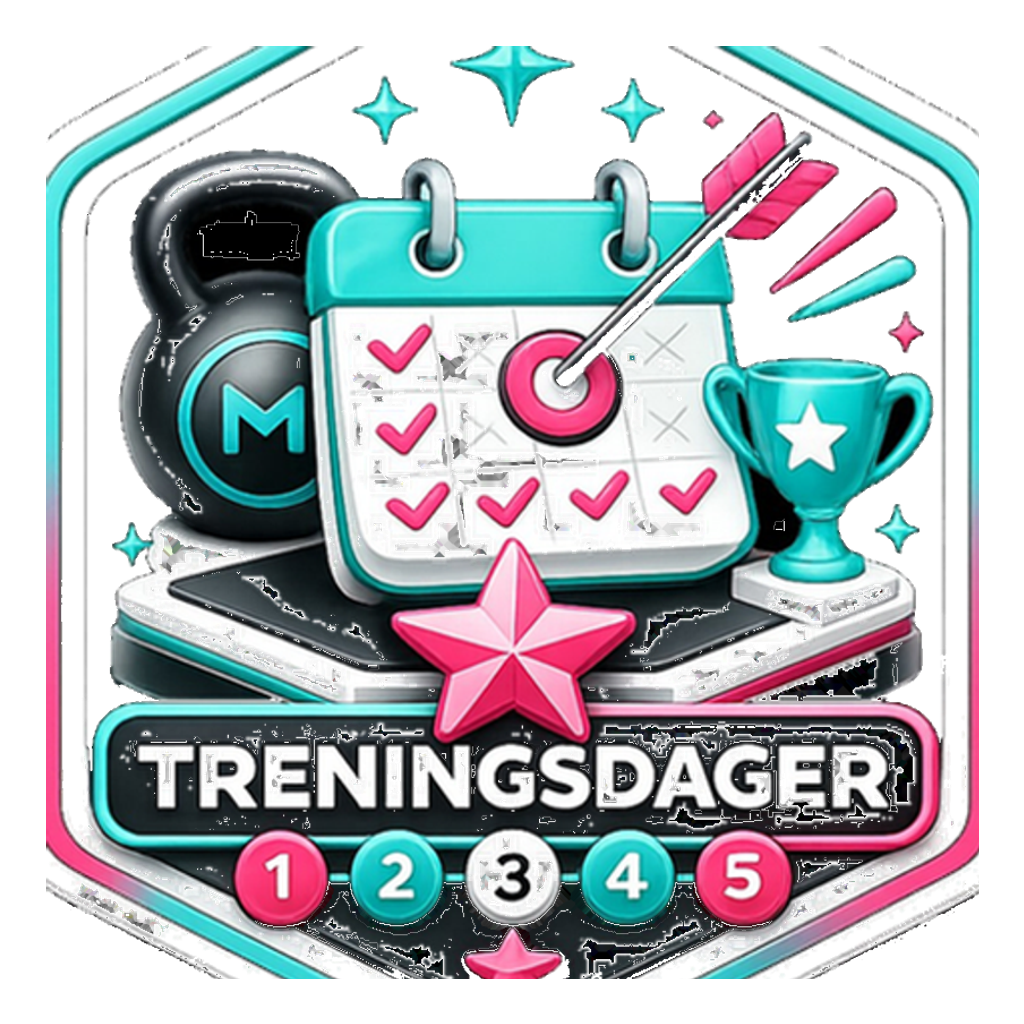
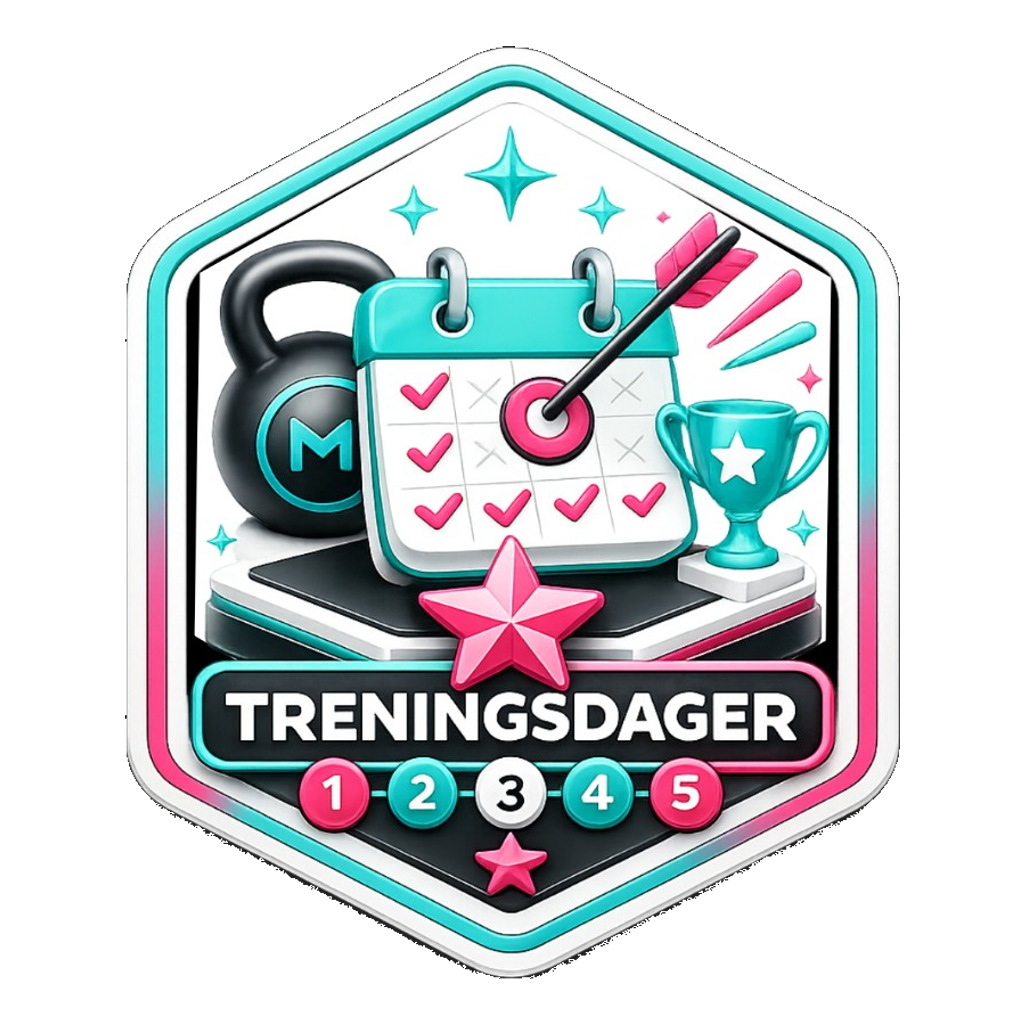
Update Treningsdager badge artwork
Replace 39-treningsdager.png with black-edge-only transparency and bump cache version.

diff --git a/src/app/badgeAssets.ts b/src/app/badgeAssets.ts
@@ -1,5 +1,5 @@
 /** Felles badge-bilder (PNG 1024×1024, normalisert visuell størrelse). */
-export const BADGE_ASSET_VERSION = "27";
+export const BADGE_ASSET_VERSION = "28";
 
 export function badgeAssetUrl(path: string): string {
   const base = path.split("?")[0] || path;
